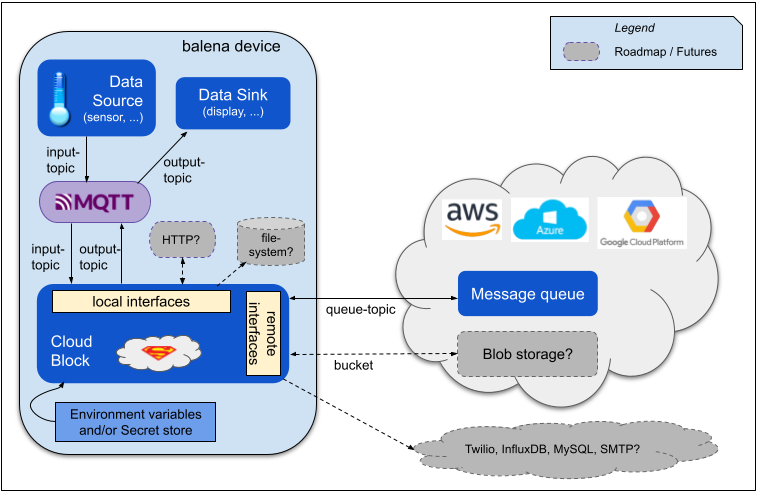
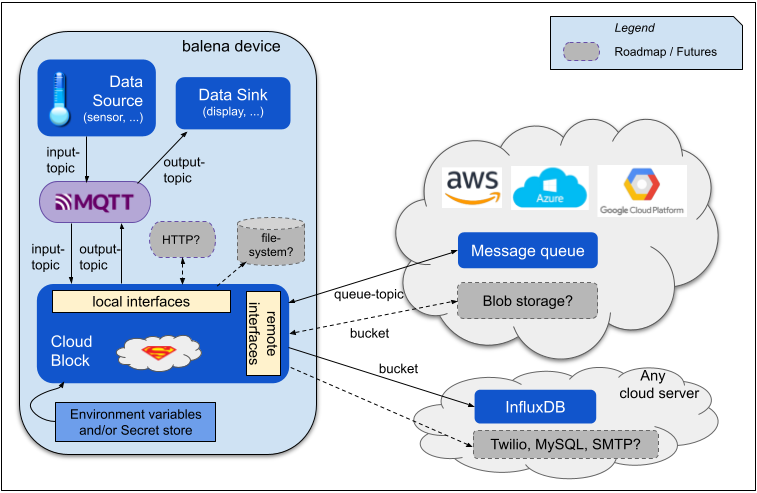
Add documentation for InfluxDB
Change-type: minor

diff --git a/docs/04-influxdb.md b/docs/04-influxdb.md
@@ -1,0 +1,34 @@
+# InfluxDB
+The InfluxDB plugin sends data to the InfluxDB database. This page lists the environment variables you must define, and also describes the required format for incoming data.
+
+## Environment variables
+If you use InfluxDB Cloud, see the *Write data* [documentation](https://docs.influxdata.com/influxdb/cloud/write-data/#what-youll-need) for how to find the value for these variables.
+
+| Environment Variable Name | Secret Store Key | Description |
+|---------------------------|------------------|-------------|
+|INFLUXDB_URL         |influxdb-url  | URL for the organization |
+|INFLUXDB_TOKEN       |influxdb-token  | Authentication token suitable for writing data |
+|INFLUXDB_ORG         |influxdb-org | ID for the organization |
+|INFLUXDB_BUCKET      |influxdb-bucket | Bucket in the database in which to store the data |
+
+## Data Format
+Data from the data source must be a JSON object in the form below.
+
+```
+{ "measurement": "<measurement-name>", "tags":"<tkey>=<tvalue>,...", "values": "<fkey>=<fvalue>,..." }
+```
+
+For example,
+```
+{ "measurement": "cpu_temp", "tags":"device=bc8b1b0", "values": "temp=32.0" }
+```
+
+A tags attribute is optional. The values attribute includes the actual data values. See InfluxDB [line protocol](https://docs.influxdata.com/influxdb/cloud/reference/syntax/line-protocol) for more details.
+
+| Element          |Req?| Notes          |
+|------------------|:--:|----------------|
+| measurement-name | Y  | Name of measurement|
+| tkey          | N  | Key for tag        |
+| tvalue        | N  | Value for tag      |
+| fkey        | Y  | Key for data field      |
+| fvalue      | Y  | Value for data field    |

diff --git a/README.md b/README.md
@@ -1,11 +1,12 @@
 ![logo](https://raw.githubusercontent.com/balena-io-playground/cloudBlock/main/docs/images/cloudBlock-logo.png)
 
-**Easily read and write application data via cloud messaging or specialized services on AWS, Azure or Google Cloud Platform.**
+**Easily read and write application data via cloud messaging or specialized services on a major cloud provider or on premises.**
 
 ## Highlights
 
 - **Messaging**: Send/Receive messages with the cloud
-- **Multiple cloud providers**: Send to AWS, Azure or Google Cloud.
+- **InfluxDB**: Send data to the popular time series database
+- **Major cloud providers**: AWS, Azure or Google Cloud
 
 ## Documentation
 
@@ -13,7 +14,7 @@ Head over to our [docs](docs/) to see how to get started and understand how it w
 
 ## Motivation
 
-![concept](https://raw.githubusercontent.com/kb2ma/cloudBlock/landr-update/docs/images/cloud.png)
+![concept](https://raw.githubusercontent.com/balena-io-playground/cloudBlock/main/docs/images/cloud.png)
 
 Cloud providers include a variety of services to consume and provide application data, but each works differently. The cloud block provides a common, simple way to exchange application data with the cloud.
 
@@ -21,4 +22,4 @@ This project is in active development so if you have any feature requests or iss
 
 ## License
 
-cloudBlock is free software, and may be redistributed under the terms specified in the [license](https://github.com/kb2ma/cloudBlock/blob/landr-update/LICENSE).
+cloudBlock is free software, and may be redistributed under the terms specified in the [license](https://github.com/balena-io-playground/cloudBlock/blob/main/LICENSE).

diff --git a/ARCHITECTURE.md b/ARCHITECTURE.md
@@ -2,7 +2,7 @@
 
 The diagram below shows the components of a solution based on the cloud block. The diagram includes some components on the development roadmap that have not yet been implemented.
 
-![Architecture](https://raw.githubusercontent.com/kb2ma/cloudBlock/landr-update/docs/images/architecture.png)
+![Architecture](https://raw.githubusercontent.com/balena-io-playground/cloudBlock/main/docs/images/architecture.png)
 
 |  Component   | Description                                                                                  |
 |--------------|----------------------------------------------------------------------------------------------|
@@ -10,7 +10,7 @@ The diagram below shows the components of a solution based on the cloud block. T
 | Data Sink    | Your application container, which receives data formatted into MQTT messages                 |
 | MQTT         | Message broker to transfer messages to the cloud block                                       |
 | Cloud Block  | Container to package and route new data messages to or from a cloud service, based on configuration you provide.|
-| cloud service| A supported service at a cloud provider to receive or provide data. Presently only message queues are supported.                         |
+| cloud service| A supported service at a cloud provider to receive or provide data.                         |
 
 Generally an application includes a data source *or* a data sink but not both. However, it is possible to include both source and sink for the same cloud topic to provide an "echo" application. Any data sent by the data source will be received by the data sink.
 

diff --git a/docs/03-config-msgqueue.md b/docs/03-config-msgqueue.md
@@ -1,5 +1,5 @@
 # Message Queues
-This page lists the environment variables or secret store values you must define to use each provider.
+A message queue supports both sending data to the queue and receiving new data from the queue. This page lists the environment variables or secret store values you must define to use each provider.
 
 ## AWS SQS
 
